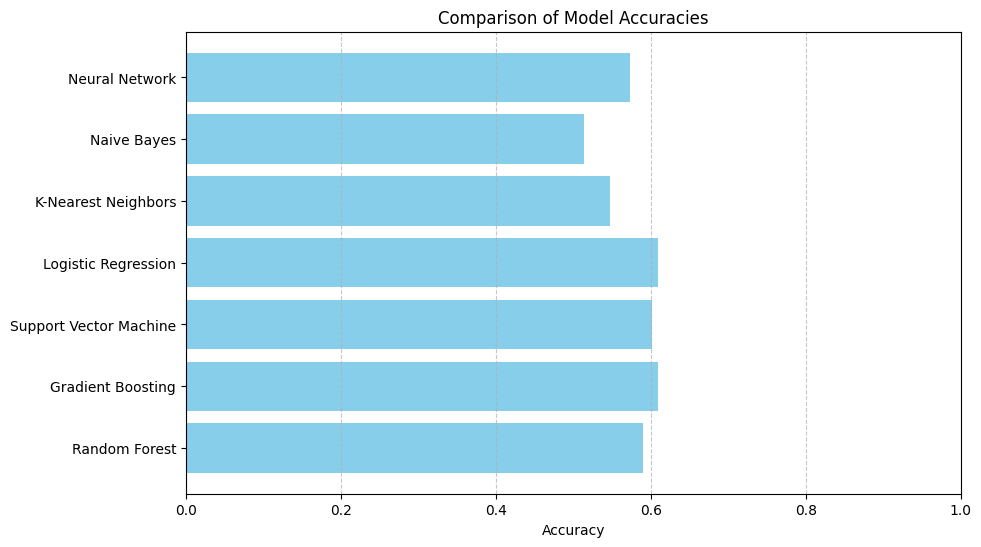
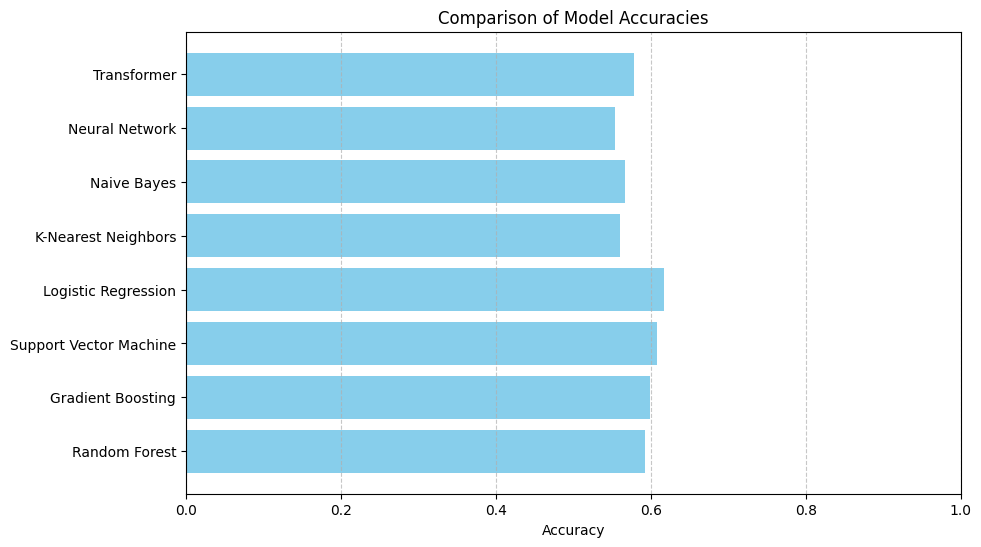
added transformer

diff --git a/data.py b/data.py
@@ -85,23 +85,23 @@ def load_ufc_data():
 
         # initialize additional columns
         for fighter_num in ['Fighter1', 'Fighter2']:
-            fight_data[f'{fighter_num}_AvgFightTime'] = 0
-            fight_data[f'{fighter_num}_TimeSinceLastFight'] = 0
-            fight_data[f'{fighter_num}_FinishRate'] = 0
+            fight_data[f'{fighter_num}_AvgFightTime'] = 0.0
+            fight_data[f'{fighter_num}_TimeSinceLastFight'] = 0.0
+            fight_data[f'{fighter_num}_FinishRate'] = 0.0
             fight_data[f'{fighter_num}_Wins'] = 0
             fight_data[f'{fighter_num}_Losses'] = 0
             fight_data[f'{fighter_num}_Draws'] = 0
             fight_data[f'{fighter_num}_NoContests'] = 0
-            fight_data[f'{fighter_num}_AvgControlTime'] = 0
-            fight_data[f'{fighter_num}_AvgSubmissionAttempts'] = 0
-            fight_data[f'{fighter_num}_AvgLegStrikes'] = 0
-            fight_data[f'{fighter_num}_AvgClinchStrikes'] = 0
-            fight_data[f'{fighter_num}_AvgStrikesLanded'] = 0
-            fight_data[f'{fighter_num}_AvgStrikesAttempted'] = 0
-            fight_data[f'{fighter_num}_StrikeAccuracy'] = 0
-            fight_data[f'{fighter_num}_AvgTakedownsLanded'] = 0
-            fight_data[f'{fighter_num}_AvgTakedownsAttempted'] = 0
-            fight_data[f'{fighter_num}_AvgReversals'] = 0
+            fight_data[f'{fighter_num}_AvgControlTime'] = 0.0
+            fight_data[f'{fighter_num}_AvgSubmissionAttempts'] = 0.0
+            fight_data[f'{fighter_num}_AvgLegStrikes'] = 0.0
+            fight_data[f'{fighter_num}_AvgClinchStrikes'] = 0.0
+            fight_data[f'{fighter_num}_AvgStrikesLanded'] = 0.0
+            fight_data[f'{fighter_num}_AvgStrikesAttempted'] = 0.0
+            fight_data[f'{fighter_num}_StrikeAccuracy'] = 0.0
+            fight_data[f'{fighter_num}_AvgTakedownsLanded'] = 0.0
+            fight_data[f'{fighter_num}_AvgTakedownsAttempted'] = 0.0
+            fight_data[f'{fighter_num}_AvgReversals'] = 0.0
 
         # sort the fight_data by 'eventdate' to ensure chronological order
         fight_data = fight_data.sort_values('EventDate').reset_index(drop=True)

diff --git a/models.py b/models.py
@@ -7,6 +7,34 @@ from sklearn.neighbors import KNeighborsClassifier
 from sklearn.naive_bayes import GaussianNB
 import torch.nn as nn
 
+class MMATransformerNet(nn.Module):
+    def __init__(self, input_size):
+        super(MMATransformerNet, self).__init__()
+        self.num_features = input_size
+        self.embedding_dim = 64
+
+        # embedding layer for numerical features
+        self.embedding = nn.Linear(1, self.embedding_dim)
+
+        # positional encoding
+        self.positional_encoding = nn.Parameter(torch.zeros(1, self.num_features, self.embedding_dim))
+
+        # transformer encoder layer
+        encoder_layer = nn.TransformerEncoderLayer(d_model=self.embedding_dim, nhead=8)
+        self.transformer_encoder = nn.TransformerEncoder(encoder_layer, num_layers=2)
+
+        # final classification layer
+        self.fc = nn.Linear(self.num_features * self.embedding_dim, 2)
+
+    def forward(self, x):
+        x = x.unsqueeze(-1) # (batch_size, num_features, 1)
+        x = self.embedding(x) # (batch_size, num_features, embedding_dim)
+        x = x + self.positional_encoding
+        x = self.transformer_encoder(x)
+        x = x.flatten(1) # (batch_size, num_features * embedding_dim)
+        x = self.fc(x) # (batch_size, 2)
+        return x
+
 class MMANet(nn.Module):
     def __init__(self, input_size):
         super(MMANet, self).__init__()
@@ -43,5 +71,8 @@ def initialize_models(input_size, device):
 
     # neural network
     models['Neural Network'] = MMANet(input_size).to(device)
+
+    # transformer
+    models['Transformer'] = MMATransformerNet(input_size).to(device)
 
     return models

diff --git a/training.py b/training.py
@@ -5,8 +5,8 @@ import torch.optim as optim
 import numpy as np
 
 def train_model(name, model, X_train, y_train, device):
-    if name == 'Neural Network':
-        # training logic for pytorch model
+    if name in ['Neural Network', 'Transformer']:
+        # training logic for pytorch models
         criterion = torch.nn.CrossEntropyLoss()
         optimizer = optim.SGD(model.parameters(), lr=0.001, weight_decay=0.1)
         num_epochs = 500

diff --git a/utils.py b/utils.py
@@ -13,6 +13,7 @@ def plot_confusion_matrix(model_name, y_test, y_pred, label_encoder, output_path
     plt.close()
 
 def plot_model_accuracies(performance_df, output_path):
+    performance_df = performance_df.sort_values(by='Accuracy', ascending=False)
     plt.figure(figsize=(10, 6))
     plt.barh(performance_df['Model'], performance_df['Accuracy'], color='skyblue')
     plt.xlabel('Accuracy')

diff --git a/evaluation.py b/evaluation.py
@@ -14,7 +14,7 @@ def evaluate_models(models, X_test, y_test, label_encoder, device):
     model_performances = {}
 
     for name, model in models.items():
-        if name == 'Neural Network':
+        if name in ['Neural Network', 'Transformer']:
             model.eval()
             with torch.no_grad():
                 X_test_tensor = torch.tensor(X_test.astype(np.float32)).to(device)
